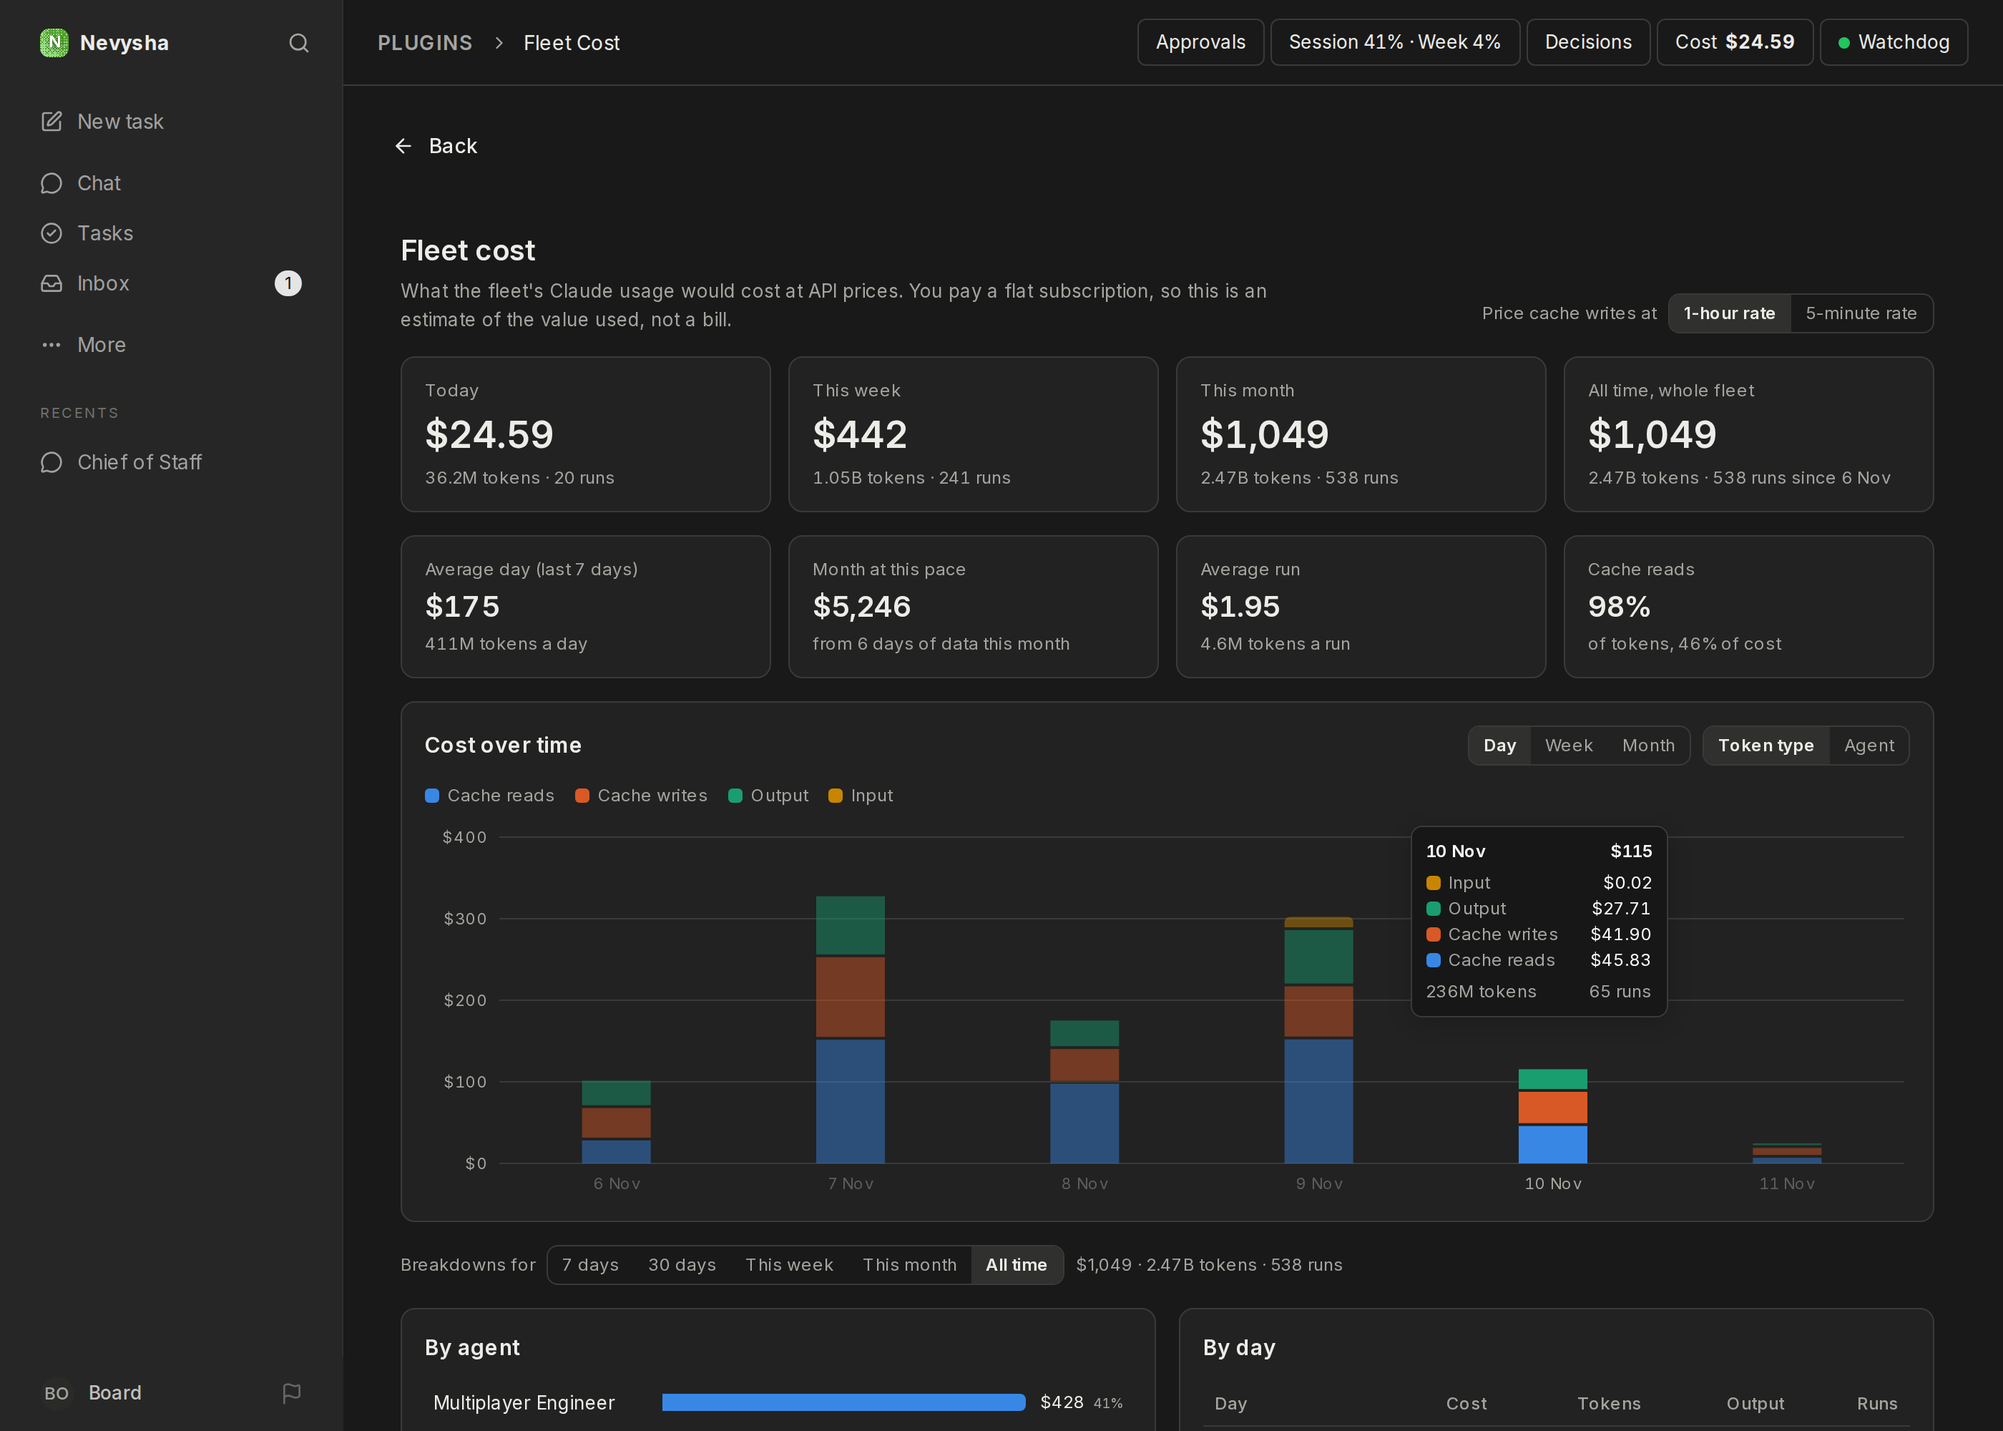
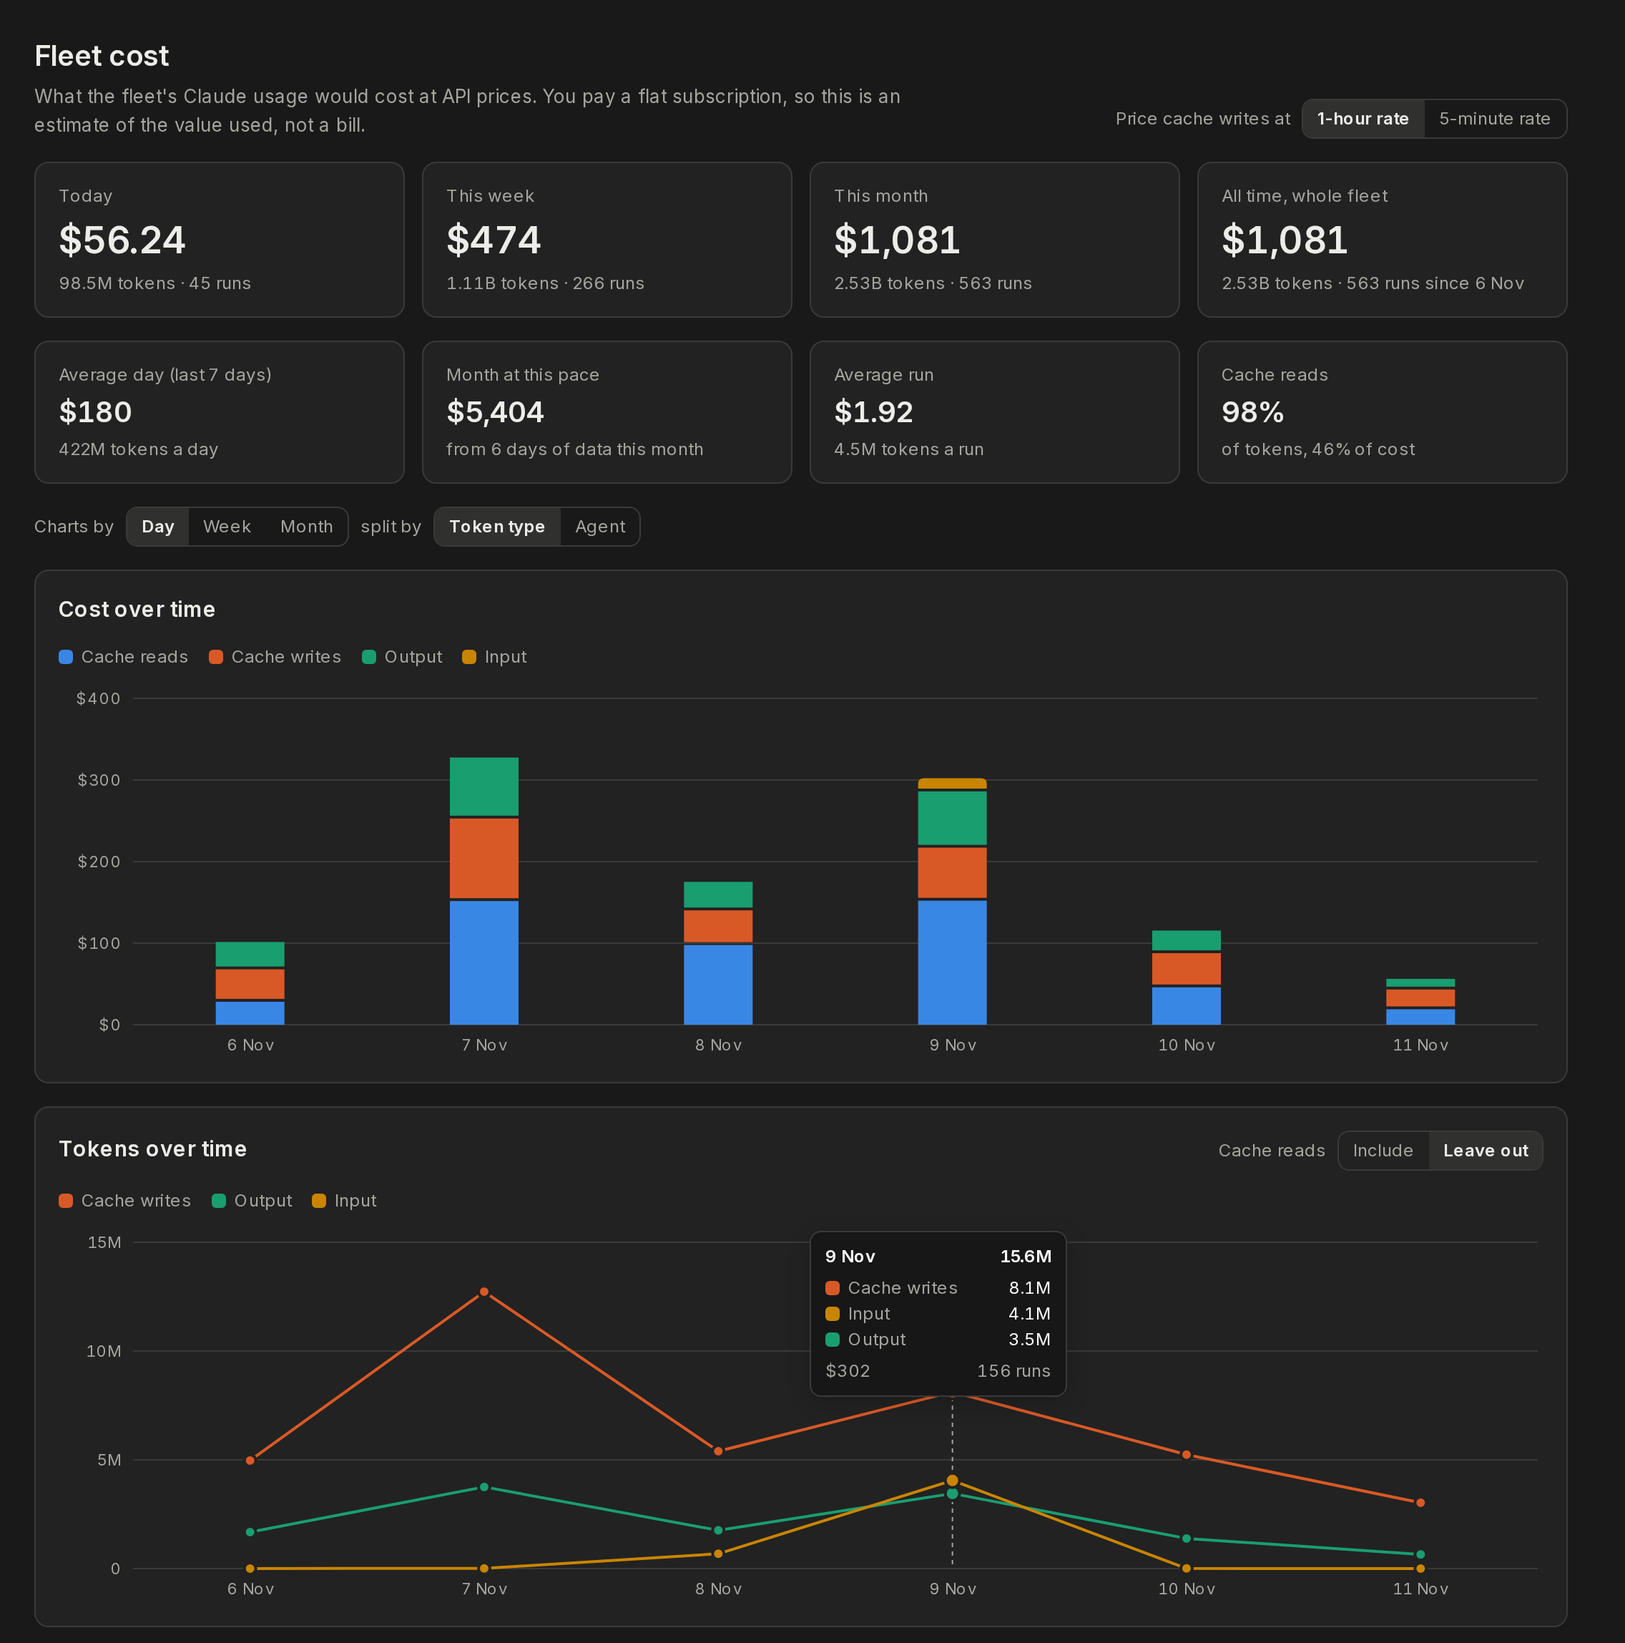
fleet-cost: tokens over time line chart and new screenshots
Adds a Tokens over time chart under the cost chart: one line per token
type or per agent, sharing the day/week/month and split controls with
the cost chart, with a switch to leave out cache reads (98% of tokens).
Token labels drop a trailing ".0". README screenshots now show both
charts, split by token type and by agent.

diff --git a/fleet-cost/src/ui/index.tsx b/fleet-cost/src/ui/index.tsx
@@ -65,9 +65,10 @@ export function usd(v: number): string {
   if (v < 100) return `$${v.toFixed(2)}`;
   return `$${Math.round(v).toLocaleString("en-US")}`;
 }
+const trim = (s: string) => s.replace(/\.0+$/, "");
 export function tok(v: number): string {
-  if (v >= 1e9) return `${(v / 1e9).toFixed(v >= 1e10 ? 1 : 2)}B`;
-  if (v >= 1e6) return `${(v / 1e6).toFixed(v >= 1e8 ? 0 : 1)}M`;
+  if (v >= 1e9) return `${trim((v / 1e9).toFixed(v >= 1e10 ? 1 : 2))}B`;
+  if (v >= 1e6) return `${trim((v / 1e6).toFixed(v >= 1e8 ? 0 : 1))}M`;
   if (v >= 1e3) return `${(v / 1e3).toFixed(0)}k`;
   return String(Math.round(v));
 }
@@ -186,15 +187,18 @@ function topRounded(x: number, y: number, w: number, h: number, r: number) {
 // ---------------------------------------------------------------- stacked bar chart
 
 type Series = { id: string; label: string; color: string };
-type Bucket = { key: string; label: string; values: Record<string, number>; totals: Totals };
+type Bucket = { key: string; label: string; values: Record<string, number>; tokenValues: Record<string, number>; totals: Totals };
+type Metric = "cost" | "tokens";
 
-function StackedBars({ buckets, series }: { buckets: Bucket[]; series: Series[] }) {
+function StackedBars({ buckets, series, metric }: { buckets: Bucket[]; series: Series[]; metric: Metric }) {
+  const fmt = metric === "cost" ? usd : tok;
+  const valuesOf = (b: Bucket) => (metric === "cost" ? b.values : b.tokenValues);
   const [ref, width] = useWidth<HTMLDivElement>();
   const [hover, setHover] = useState<number | null>(null);
   const H = 260, padL = 52, padB = 24, padT = 8;
   const innerW = Math.max(0, width - padL - 4);
   const innerH = H - padB - padT;
-  const sums = buckets.map((b) => series.reduce((s, x) => s + (b.values[x.id] ?? 0), 0));
+  const sums = buckets.map((b) => series.reduce((s, x) => s + (valuesOf(b)[x.id] ?? 0), 0));
   const { max, step } = niceMax(Math.max(0, ...sums));
   const slot = buckets.length ? innerW / buckets.length : 0;
   const barW = Math.max(2, Math.min(48, slot * 0.7));
@@ -209,17 +213,17 @@ function StackedBars({ buckets, series }: { buckets: Bucket[]; series: Series[] 
   return (
     <div className="fc-chart" ref={ref} onMouseLeave={() => setHover(null)}>
       {width > 0 ? (
-        <svg width={width} height={H} role="img" aria-label="Cost at API prices over time">
+        <svg width={width} height={H} role="img" aria-label={metric === "cost" ? "Cost at API prices over time" : "Tokens over time"}>
           {ticks.map((t) => (
             <g key={t}>
               <line x1={padL} x2={width - 4} y1={y(t)} y2={y(t)} stroke="var(--border)" strokeWidth={1} />
-              <text className="fc-axis" x={padL - 8} y={y(t) + 4} textAnchor="end">{usd(t)}</text>
+              <text className="fc-axis" x={padL - 8} y={y(t) + 4} textAnchor="end">{fmt(t)}</text>
             </g>
           ))}
           {buckets.map((b, i) => {
             const cx = padL + slot * i + slot / 2;
             let acc = 0;
-            const segs = series.map((s) => ({ s, v: b.values[s.id] ?? 0 })).filter((x) => x.v > 0);
+            const segs = series.map((s) => ({ s, v: valuesOf(b)[s.id] ?? 0 })).filter((x) => x.v > 0);
             return (
               <g key={b.key} opacity={hover == null || hover === i ? 1 : 0.45}>
                 {segs.map(({ s, v }, j) => {
@@ -235,7 +239,7 @@ function StackedBars({ buckets, series }: { buckets: Bucket[]; series: Series[] 
                 {i % every === 0 ? <text className="fc-axis" x={cx} y={H - 6} textAnchor="middle">{b.label}</text> : null}
                 <rect x={padL + slot * i} y={padT} width={slot} height={innerH} fill="transparent"
                   onMouseEnter={() => setHover(i)} onFocus={() => setHover(i)} tabIndex={0}
-                  aria-label={`${b.label}: ${usd(sums[i]!)}`} />
+                  aria-label={`${b.label}: ${fmt(sums[i]!)}`} />
               </g>
             );
           })}
@@ -243,14 +247,84 @@ function StackedBars({ buckets, series }: { buckets: Bucket[]; series: Series[] 
       ) : <div style={{ height: H }} />}
       {hb ? (
         <div className="fc-tip" style={{ left: tipLeft, top: 0 }}>
-          <div className="fc-tip-row" style={{ marginBottom: 4 }}><b>{hb.label}</b><b>{usd(sums[hover!]!)}</b></div>
-          {[...series].reverse().filter((s) => (hb.values[s.id] ?? 0) > 0).map((s) => (
+          <div className="fc-tip-row" style={{ marginBottom: 4 }}><b>{hb.label}</b><b>{fmt(sums[hover!]!)}</b></div>
+          {[...series].reverse().filter((s) => (valuesOf(hb)[s.id] ?? 0) > 0).map((s) => (
             <div key={s.id} className="fc-tip-row">
               <span className="k"><i className="fc-sw" style={{ background: s.color }} />{s.label}</span>
-              <span>{usd(hb.values[s.id]!)}</span>
+              <span>{fmt(valuesOf(hb)[s.id]!)}</span>
             </div>
           ))}
-          <div className="fc-tip-row fc-muted" style={{ marginTop: 4 }}><span>{tok(hb.totals.tokens.total)} tokens</span><span>{hb.totals.runs} runs</span></div>
+          <div className="fc-tip-row fc-muted" style={{ marginTop: 4 }}><span>{metric === "cost" ? `${tok(hb.totals.tokens.total)} tokens` : usd(hb.totals.cost.total)}</span><span>{hb.totals.runs} runs</span></div>
+        </div>
+      ) : null}
+    </div>
+  );
+}
+
+// ---------------------------------------------------------------- line chart (tokens)
+
+/** One line per series from a shared zero baseline; points sit at the same x as the bars above. */
+function TokenLines({ buckets, series }: { buckets: Bucket[]; series: Series[] }) {
+  const [ref, width] = useWidth<HTMLDivElement>();
+  const [hover, setHover] = useState<number | null>(null);
+  const H = 260, padL = 52, padB = 24, padT = 8;
+  const innerW = Math.max(0, width - padL - 4);
+  const innerH = H - padB - padT;
+  const { max, step } = niceMax(Math.max(0, ...buckets.flatMap((b) => series.map((s) => b.tokenValues[s.id] ?? 0))));
+  const slot = buckets.length ? innerW / buckets.length : 0;
+  const x = (i: number) => padL + slot * i + slot / 2;
+  const y = (v: number) => padT + innerH - (v / max) * innerH;
+  const every = Math.max(1, Math.ceil((buckets.length * 52) / Math.max(1, innerW)));
+  const markers = buckets.length <= 31;
+  const ticks: number[] = [];
+  for (let t = 0; t <= max + 1e-9; t += step) ticks.push(t);
+
+  const hb = hover != null ? buckets[hover] : null;
+  const tipLeft = hover != null ? Math.min(Math.max(0, x(hover) - 100), Math.max(0, width - 210)) : 0;
+  const hbTotal = hb ? series.reduce((s, x) => s + (hb.tokenValues[x.id] ?? 0), 0) : 0;
+
+  return (
+    <div className="fc-chart" ref={ref} onMouseLeave={() => setHover(null)}>
+      {width > 0 ? (
+        <svg width={width} height={H} role="img" aria-label="Tokens over time">
+          {ticks.map((t) => (
+            <g key={t}>
+              <line x1={padL} x2={width - 4} y1={y(t)} y2={y(t)} stroke="var(--border)" strokeWidth={1} />
+              <text className="fc-axis" x={padL - 8} y={y(t) + 4} textAnchor="end">{tok(t)}</text>
+            </g>
+          ))}
+          {buckets.map((b, i) => (i % every === 0
+            ? <text key={b.key} className="fc-axis" x={x(i)} y={H - 6} textAnchor="middle">{b.label}</text>
+            : null))}
+          {hover != null ? <line x1={x(hover)} x2={x(hover)} y1={padT} y2={padT + innerH} stroke="var(--muted-foreground)" strokeWidth={1} strokeDasharray="3 3" /> : null}
+          {series.map((s) => {
+            const pts = buckets.map((b, i) => `${x(i)},${y(b.tokenValues[s.id] ?? 0)}`);
+            return (
+              <g key={s.id}>
+                <path d={`M${pts.join("L")}`} fill="none" stroke={s.color} strokeWidth={2} strokeLinejoin="round" strokeLinecap="round" />
+                {buckets.map((b, i) => (markers || hover === i
+                  ? <circle key={b.key} cx={x(i)} cy={y(b.tokenValues[s.id] ?? 0)} r={hover === i ? 5 : 4} fill={s.color} stroke="var(--card)" strokeWidth={2} />
+                  : null))}
+              </g>
+            );
+          })}
+          {buckets.map((b, i) => (
+            <rect key={b.key} x={padL + slot * i} y={padT} width={slot} height={innerH} fill="transparent"
+              onMouseEnter={() => setHover(i)} onFocus={() => setHover(i)} tabIndex={0}
+              aria-label={`${b.label}: ${series.map((s) => `${s.label} ${tok(b.tokenValues[s.id] ?? 0)}`).join(", ")}`} />
+          ))}
+        </svg>
+      ) : <div style={{ height: H }} />}
+      {hb ? (
+        <div className="fc-tip" style={{ left: tipLeft, top: 0 }}>
+          <div className="fc-tip-row" style={{ marginBottom: 4 }}><b>{hb.label}</b><b>{tok(hbTotal)}</b></div>
+          {[...series].sort((a, b) => (hb.tokenValues[b.id] ?? 0) - (hb.tokenValues[a.id] ?? 0)).map((s) => (
+            <div key={s.id} className="fc-tip-row">
+              <span className="k"><i className="fc-sw" style={{ background: s.color }} />{s.label}</span>
+              <span>{tok(hb.tokenValues[s.id] ?? 0)}</span>
+            </div>
+          ))}
+          <div className="fc-tip-row fc-muted" style={{ marginTop: 4 }}><span>{usd(hb.totals.cost.total)}</span><span>{hb.totals.runs} runs</span></div>
         </div>
       ) : null}
     </div>
@@ -289,9 +363,11 @@ export function FleetCostPage({ context }: PluginPageProps) {
   const [grain, setGrain] = useState<Grain>("day");
   const [split, setSplit] = useState<Split>("kind");
   const [period, setPeriod] = useState<Period>("all");
+  const [readsMode, setReadsMode] = useState<"with" | "without">("with");
   const today = localToday();
 
   const view = useMemo(() => {
+    const showReads = readsMode === "with";
     if (!data) return null;
     const rows = data.rows;
     const sel = (f: (d: string) => boolean) => rows.filter((r) => f(r.day));
@@ -327,16 +403,22 @@ export function FleetCostPage({ context }: PluginPageProps) {
     const buckets: Bucket[] = keys.map((k) => {
       const rs = bucketMap.get(k) ?? [];
       const values: Record<string, number> = {};
+      const tokenValues: Record<string, number> = {};
       for (const r of rs) {
         const c = costOf(r, ttl);
+        const t = tokensOf(r);
         if (split === "kind") {
-          for (const s of KIND_SERIES) values[s.id] = (values[s.id] ?? 0) + c[s.id as "input"];
+          for (const s of KIND_SERIES) {
+            values[s.id] = (values[s.id] ?? 0) + c[s.id as "input"];
+            tokenValues[s.id] = (tokenValues[s.id] ?? 0) + t[s.id as "input"];
+          }
         } else {
           const id = colourOf.has(r.agentId ?? "none") ? (r.agentId ?? "none") : "other";
           values[id] = (values[id] ?? 0) + c.total;
+          tokenValues[id] = (tokenValues[id] ?? 0) + t.total - (showReads ? 0 : t.cacheRead);
         }
       }
-      return { key: k, label: label(k), values, totals: total(rs, ttl) };
+      return { key: k, label: label(k), values, tokenValues, totals: total(rs, ttl) };
     });
 
     // Period breakdowns
@@ -353,8 +435,9 @@ export function FleetCostPage({ context }: PluginPageProps) {
       .sort((a, b) => b.t.cost.total - a.t.cost.total);
     const days = [...groupBy(pRows, (r) => r.day as string, ttl)].sort((a, b) => (a[0] < b[0] ? 1 : -1));
 
-    return { all, todayT, weekT, monthT, last7, days7, projection, monthDays, unknownModels, series, buckets, pTotal, agents, tasks, days, firstDay };
-  }, [data, ttl, grain, split, period, today]);
+    const tokenSeries = split === "kind" && !showReads ? series.filter((x) => x.id !== "cacheRead") : series;
+    return { tokenSeries, all, todayT, weekT, monthT, last7, days7, projection, monthDays, unknownModels, series, buckets, pTotal, agents, tasks, days, firstDay };
+  }, [data, ttl, grain, split, period, today, readsMode]);
 
   return (
     <main className="fc-root">
@@ -391,18 +474,38 @@ export function FleetCostPage({ context }: PluginPageProps) {
               note={`of tokens, ${pct(view.all.cost.total ? view.all.cost.cacheRead / view.all.cost.total : 0)} of cost`} />
           </section>
 
+          <div className="fc-controls" role="group" aria-label="Chart options">
+            <span className="fc-ctl-label">Charts by</span>
+            <Seg label="Group by" value={grain} onChange={setGrain} options={[["day", "Day"], ["week", "Week"], ["month", "Month"]]} />
+            <span className="fc-ctl-label">split by</span>
+            <Seg label="Split by" value={split} onChange={setSplit} options={[["kind", "Token type"], ["agent", "Agent"]]} />
+          </div>
+
           <section className="fc-card" aria-label="Cost over time">
-            <div className="fc-card-head">
-              <h2>Cost over time</h2>
-              <div className="fc-controls">
-                <Seg label="Group by" value={grain} onChange={setGrain} options={[["day", "Day"], ["week", "Week"], ["month", "Month"]]} />
-                <Seg label="Split by" value={split} onChange={setSplit} options={[["kind", "Token type"], ["agent", "Agent"]]} />
-              </div>
-            </div>
+            <h2>Cost over time</h2>
             <div className="fc-legend">
               {view.series.map((s) => <span key={s.id}><i className="fc-sw" style={{ background: s.color }} />{s.label}</span>)}
             </div>
-            <StackedBars buckets={view.buckets} series={view.series} />
+            <StackedBars buckets={view.buckets} series={view.series} metric="cost" />
+          </section>
+
+          <section className="fc-card" aria-label="Tokens over time">
+            <div className="fc-card-head">
+              <h2>Tokens over time</h2>
+              <div className="fc-controls">
+                <span className="fc-ctl-label">Cache reads</span>
+                <Seg label="Cache reads" value={readsMode} onChange={setReadsMode} options={[["with", "Include"], ["without", "Leave out"]]} />
+              </div>
+            </div>
+            <div className="fc-legend">
+              {view.tokenSeries.map((s) => <span key={s.id}><i className="fc-sw" style={{ background: s.color }} />{s.label}</span>)}
+            </div>
+            <TokenLines buckets={view.buckets} series={view.tokenSeries} />
+            {readsMode === "with" ? (
+              <p className="fc-foot" style={{ margin: 0 }}>
+                Cache reads are {pct(view.all.tokens.total ? view.all.tokens.cacheRead / view.all.tokens.total : 0)} of all tokens, so the other types barely show. Leave them out to compare those.
+              </p>
+            ) : null}
           </section>
 
           <div className="fc-controls" role="group" aria-label="Period for the breakdowns below">

diff --git a/fleet-cost/README.md b/fleet-cost/README.md
@@ -2,13 +2,18 @@
 
 A **Fleet Cost** page showing what the fleet's Claude usage would cost at API prices, next to its token usage. The fleet runs on a subscription, so Paperclip's own Costs page shows $0. This page puts a price on the same tokens.
 
-![The Fleet Cost page in dark mode: totals for today, this week, this month and all time, a stacked bar chart of daily cost by token type with a tooltip, and the start of the per-agent breakdown](docs/fleet-cost.png)
+![The Fleet Cost page in dark mode, split by token type: totals and rates, a stacked bar chart of daily cost, and a line chart of daily tokens with cache reads left out, showing a tooltip for 9 Nov](docs/fleet-cost.png)
+
+Split by agent, the same two charts show each agent's share, here with a tooltip on the cost bar for 9 Nov:
+
+![The Fleet Cost page in dark mode, split by agent: daily cost bars stacked by agent with a tooltip, and a line per agent in the tokens chart](docs/fleet-cost-agents.png)
 
 ## What it shows
 
 - **Totals:** today, this week (from Monday), this month and all time. Each shows cost, tokens and runs.
 - **Rates:** the average day over the last 7 days, the month's projected total at the current pace, the average run, and the share of tokens and of cost that comes from cache reads.
 - **Cost over time:** bars by day, week or month, split by token type (cache reads, cache writes, output, input) or by agent. The 7 agents with the highest all-time cost get their own colour, and the rest share "Other agents". Colours stay with the agent when you change the period.
+- **Tokens over time:** one line per token type (or per agent), grouped and split the same way as the cost chart, with its points under the cost bars. Cache reads are about 98% of all tokens and dwarf the rest, so a switch leaves them out to compare the other types.
 - **Breakdowns** for 7 days, 30 days, this week, this month or all time:
   - cost per agent, with a token breakdown on hover;
   - cost per day;

diff --git a/README.md b/README.md
@@ -30,7 +30,7 @@ A **Watchdog** button in the header showing whether the watchdog (a timer outsid
 
 A **Fleet Cost** page showing what the fleet's Claude usage would cost at API prices, per day, week, month, agent and task, with token usage. There's also a header button with today's cost.
 
-![The Fleet Cost page in dark mode, with cost totals, a daily cost chart split by token type, and the per-agent breakdown](fleet-cost/docs/fleet-cost.png)
+![The Fleet Cost page in dark mode, with cost totals, a daily cost bar chart and a daily tokens line chart, both split by token type](fleet-cost/docs/fleet-cost.png)
 
 ## Setup
 
